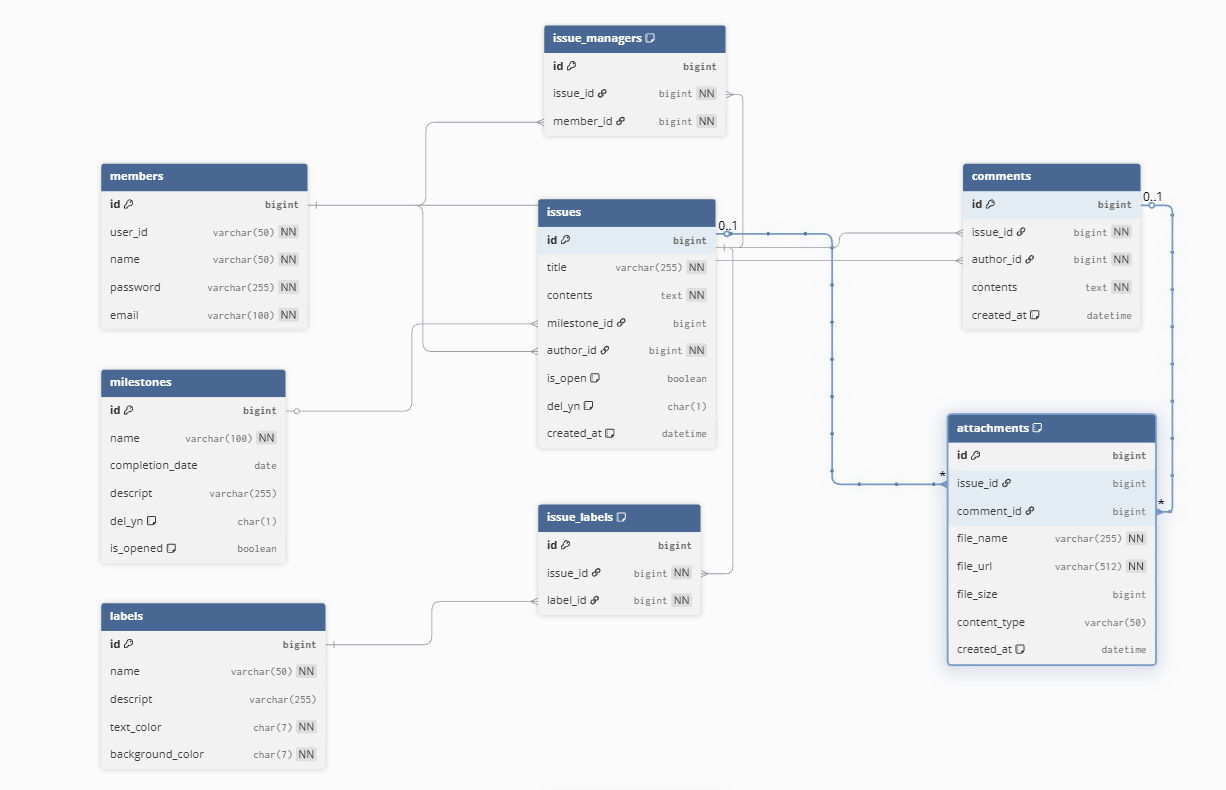
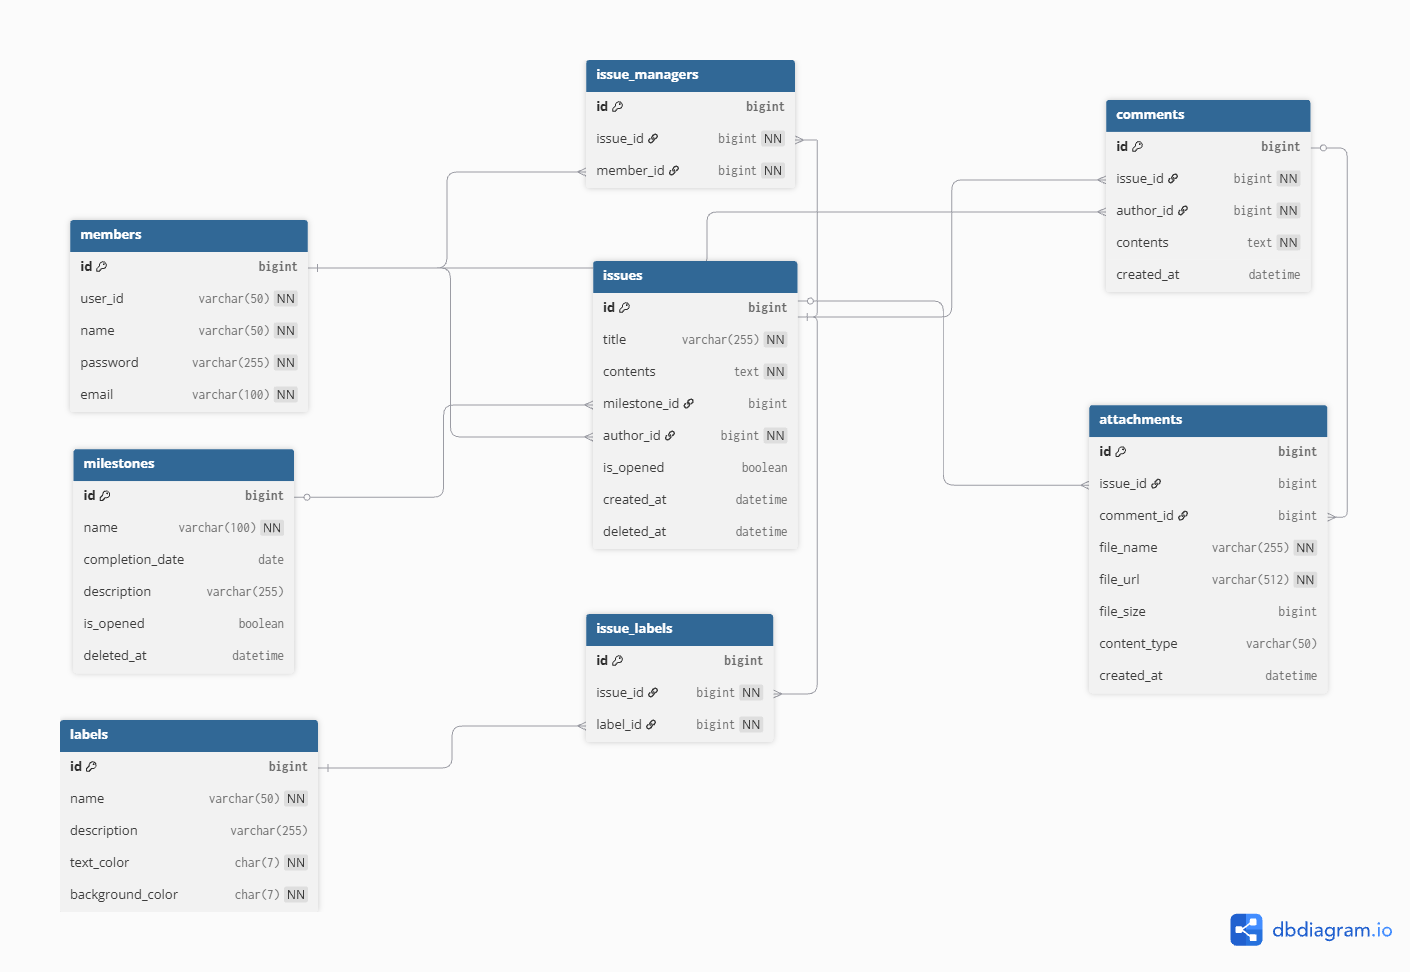
Docs: ERD 이미지 수정 및 ERD 수정

diff --git a/README.md b/README.md
@@ -70,7 +70,7 @@
 ### [➡️회의록](https://github.com/codesquad-masters2026-team01/issue-tracker/wiki/Meeting%E2%80%90Notes#20260504)
 
 ---
-## 🏗️ ERD (Entity Relationship Diagram)
+## 🏗️ ERD (Entity Relationship Diagram
 
 ![Project ERD](./images/ERD.png)
 